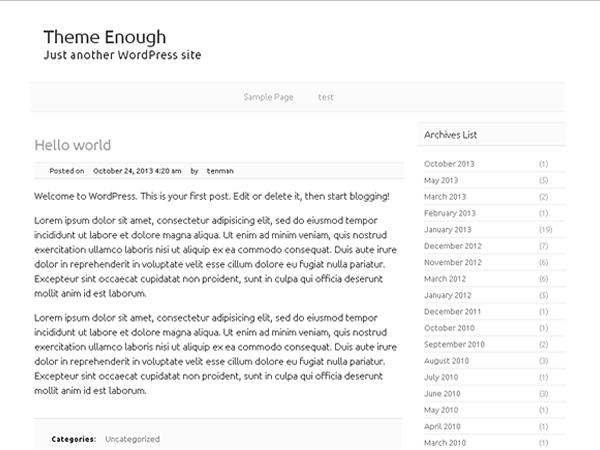
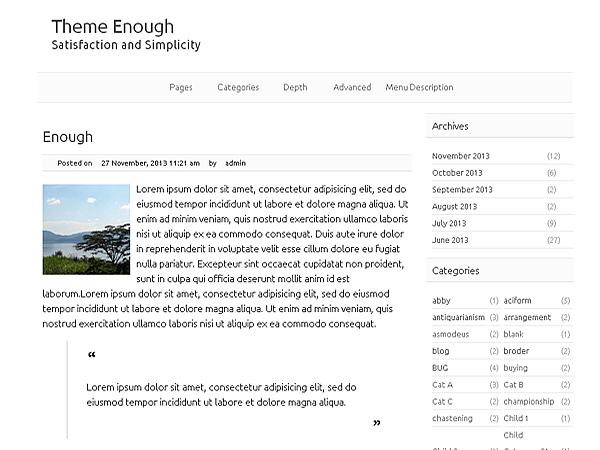
modified:   changelog.txt 	modified:   css/base.css 	modified:   css/box-modules.css 	modified:   css/colors.css 	modified:   screenshot.png 	modified:   style.css

diff --git a/style.css b/style.css
@@ -4,7 +4,7 @@ Theme URI: http://www.tenman.info/wp3/enough/
 Description: Satisfied enough necessary minimum structure Responsive Theme. HTML5 normalize.css . 11 kinds of homepage templates can be chosen for the purpose of using you.
 Author: Tenman
 Author URI: http://www.tenman.info/wp3/
-Version: 0.78
+Version: 0.79
 Tags:white,two-columns,custom-colors, custom-header, custom-background, custom-menu, editor-style, threaded-comments, sticky-post
 License: GNU General Public License v2.0
 License URI: http://www.gnu.org/licenses/gpl-2.0.html
@@ -161,3 +161,38 @@ body{
     box-sizing:border-box;
 }
 /* optional responsive grid  end */
+
+/* Special presentation for sidebar menus start*/
+.widget_archive ul li:nth-child(n+7){
+        display:none;
+
+}
+.widget_archive:hover ul li:nth-child(n+7){
+        display:block;
+
+}
+.widget_categories ul li {
+		width:49%;
+		display:inline-block;
+}
+#sidebar-1 .widget_categories .children{
+		display:none!important;
+}
+#sidebar-1 .widget_categories li:hover .children{
+		display:block!important;
+		
+}
+#sidebar-1 .widget_categories li:hover a{
+		display:inline;
+}
+/*
+#sidebar-1 .widget_pages .children{
+		display:none!important;
+}
+
+#sidebar-1 .widget_pages li:hover .children{
+		display:block!important;
+		
+}*/
+
+/* Special presentation for sidebar menus end*/

diff --git a/css/box-modules.css b/css/box-modules.css
@@ -606,22 +606,21 @@ nav a:active,
 	width:64px;
 }
 #custom-post-format-widget-link li a{
-border-radius: 32px;
--moz-border-radius: 32px;
--webkit-border-radius: 32px;
-border: 0 solid #800000;
-width: 64px;
-height: 64px;
-background: orange;
-display: table;
-text-align: center;
+	border-radius: 32px;
+	-moz-border-radius: 32px;
+	-webkit-border-radius: 32px;
+	border: 0 solid #800000;
+	width: 64px;
+	height: 64px;
+	background: orange;
+	display: table;
+	text-align: center;
 }
 #custom-post-format-widget-link li a span{
-display: table-cell;
-vertical-align: middle;
-text-align: center;color: #fff;
-font-weight: bold;
-
+	display: table-cell;
+	vertical-align: middle;
+	text-align: center;color: #fff;
+	font-weight: bold;
 }
 
 .slides_control div{
@@ -634,4 +633,7 @@ font-weight: bold;
 
 .wp-audio-shortcode{
 	max-width:320px;
+}
+#recentcomments a{
+	display:inline;
 }

diff --git a/css/colors.css b/css/colors.css
@@ -73,21 +73,20 @@ hr{
 	border:1px solid rgba(200,200,200,0.5);
 }
 
-a{
-	color:#009966;
-}
 a:link {
 	color:#666;
 }
 a:visited {
-	color:#999;
+	color:#444;
 }
-
+a:active{
+	text-shadow: 0px -2px 6px #ccc;
+}
 a,
 .widgettitle{
 }
 .widget > li{
-	color:#777;
+	color:#666;
 }
 .widget > li a:hover {
 	
@@ -124,7 +123,7 @@ nav #wp-calendar thead th,
 .widget_meta .widgettitle{
 }
 nav #wp-calendar thead th{
-	background:orange;
+	background:#ccc;
 	color:#fff;
 }
 
@@ -202,6 +201,13 @@ blockquote{
 #custom-post-format-widget-link .quote{
 	
 }
+#custom-post-format-widget-link li a{
+	background: orange;
+}
+#custom-post-format-widget-link li a span{
+	text-align: center;color: #fff;
+}
+
 @media screen and (min-width: 481px){
 
 	.menu-header {

diff --git a/css/base.css b/css/base.css
@@ -44,6 +44,13 @@ a{
 	max-width:100%;
 	text-decoration:none;
 }
+a:active{
+	margin-top:1px;
+}
+.menu-header a:active{
+	margin-top:0;
+}
+
 address {
 	text-align:center;
 }
